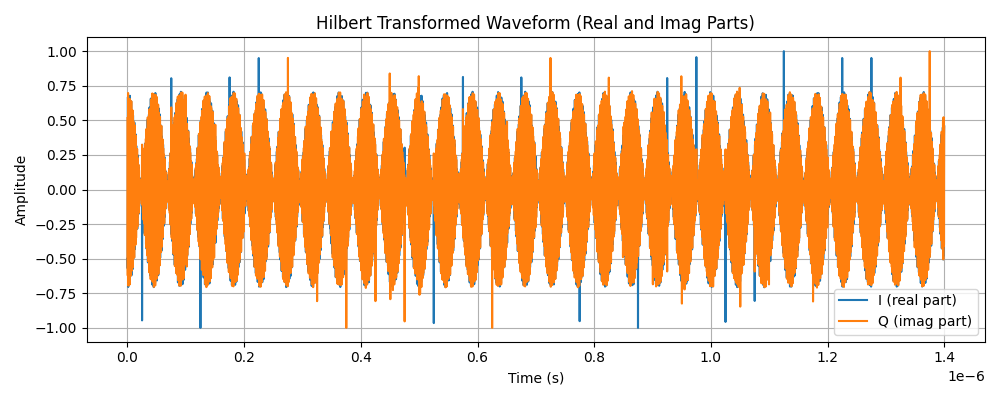
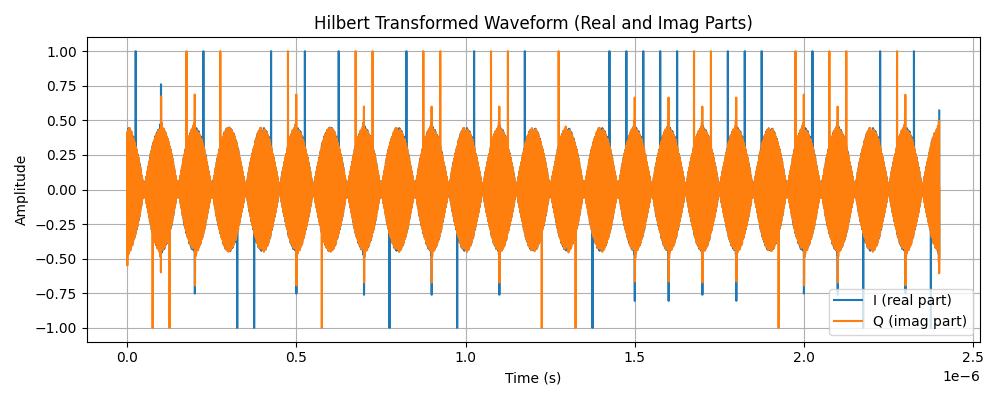
it works after reverting changes

diff --git a/Phys_Sim/Repeater.py b/Phys_Sim/Repeater.py
@@ -35,7 +35,7 @@ class Repeater:
 
         return qpsk_shifted
 
-    def filter(self, mixed_qpsk, order=20):
+    def filter(self, cuttoff_frequency, mixed_qpsk, order=5):
         """
         Filters the mixed signal to remove unwanted frequencies.
 
@@ -46,20 +46,9 @@ class Repeater:
 
         # Implement filtering logic here
         from scipy import signal
-        freq_low = self.desired_frequency - 150e6
-        freq_high = self.desired_frequency + 150e6
-
-        #we need to normalize these frequencies by sampling rate/2
-        nyquist = self.sampling_frequency/2
-        low = freq_low/nyquist
-        high =freq_high/nyquist
-        #debug print(low, high)
-        taps = signal.firwin(order+1,[low, high])
-
-        # Apply filter
-        filtered_sig = signal.lfilter(taps, 1.0, mixed_qpsk)  # filtered signal
-        
-        return mixed_qpsk
+        b,a = signal.butter(order, cuttoff_frequency, btype='low', fs=self.sampling_frequency)
+        filtered_sig = signal.filtfilt(b,a, mixed_qpsk)
+        return filtered_sig
 
     def amplify(self, input_signal):
         """
@@ -297,7 +286,8 @@ class Repeater:
     def handler(self, t, qpsk_waveform, f_carrier):
         
         qpsk_mixed = self.mix(qpsk_waveform, f_carrier, t)        
-        qpsk_filtered = self.filter(qpsk_mixed)
+        cuttoff_freq = self.desired_frequency + 30e6
+        qpsk_filtered = self.filter(cuttoff_freq, qpsk_mixed)
         
         self.plot_to_png(t, qpsk_waveform, qpsk_mixed, qpsk_filtered, self.sampling_frequency)
 
